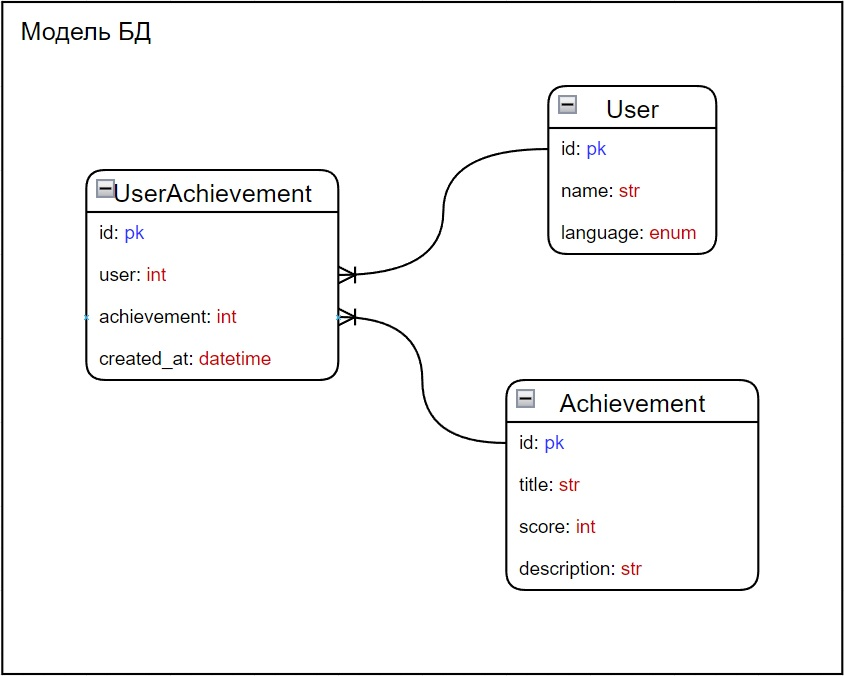
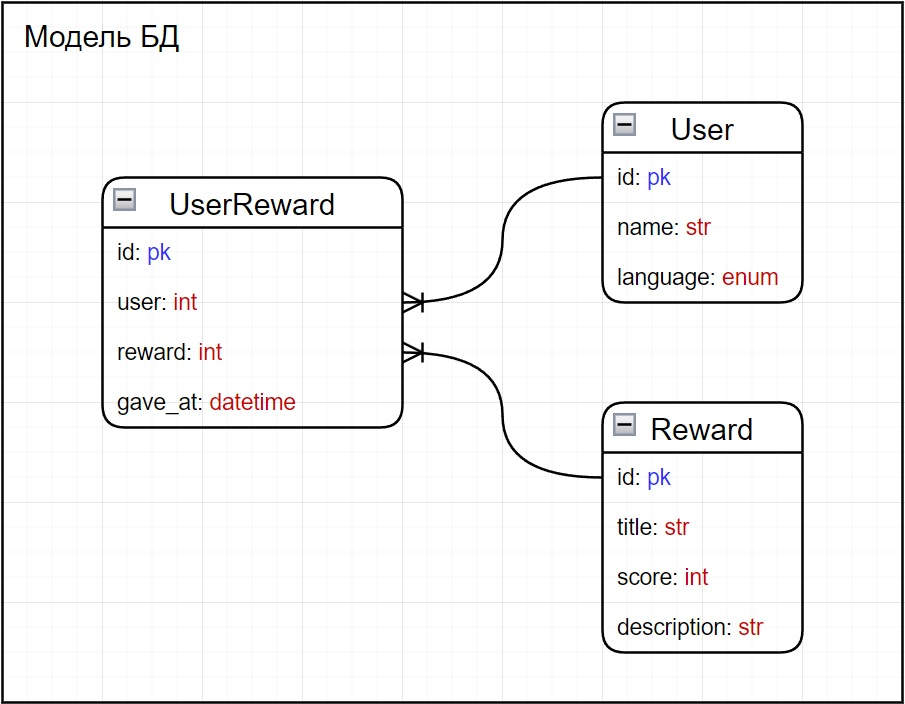
add rewardest user api

diff --git a/src/main.py b/src/main.py
@@ -1,6 +1,8 @@
-from fastapi import FastAPI, Depends, HTTPException
-from sqlalchemy.orm import Session
 from http import HTTPStatus
+
+from fastapi import Depends, FastAPI, HTTPException
+from sqlalchemy import func
+from sqlalchemy.orm import Session
 
 from src import crud, models, schemas
 from src.database import SessionLocal, engine
@@ -19,86 +21,91 @@ def get_db():
 
 
 @app.post('/users/', response_model=schemas.UserAdd)
-async def add_user(user: schemas.UserAdd, db: Session = Depends(get_db)):
+def add_user(user: schemas.UserAdd, db: Session = Depends(get_db)):
     return crud.add_user(db=db, user=user)
 
 
 @app.get('/users/', response_model=list[schemas.UserGet])
-async def get_users(db: Session = Depends(get_db)):
+def get_users(db: Session = Depends(get_db)):
     return db.query(models.User).all()
 
 
 @app.get('/users/{id}', response_model=schemas.UserGet)
-async def get_user(id: int, db: Session = Depends(get_db)):
+def get_user(id: int, db: Session = Depends(get_db)):
     user = crud.get_user(db=db, id=id)
     if user is None:
         raise HTTPException(
-            status_code=HTTPStatus.NOT_FOUND,
-            detail='Пользователь не найден.'
+            status_code=HTTPStatus.NOT_FOUND, detail='Пользователь не найден.'
         )
     return user
 
 
-# @app.get('/users/most_rewarded')
-# async def get_most_rewarded_user():
-#     """Пользователь с максимальным количеством наград."""
-
-#     return {}
+@app.get('/users/rewardest/', response_model=schemas.RewardestUser)
+def get_rewardest_user(db: Session = Depends(get_db)):
+    rewardest = (
+        db.query(models.RewardUser.user, func.count(models.RewardUser.reward))
+        .group_by(models.RewardUser.user)
+        .order_by(func.count(models.RewardUser.reward).desc())
+        .first()
+    )
+    user, rewards = rewardest
+    return {'user': user, 'rewards': rewards}
 
 
 # @app.get('/users/max_scores')
-# async def get_user_with_max_scores():
+# def get_user_with_max_scores():
 #     """Пользователь с максимальным количеством баллов."""
 
 #     return {}
 
 
 # @app.get('/users/most_difference')
-# async def get_users_with_most_difference():
+# def get_users_with_most_difference():
 #     """Пользователи с наибольшей разницей очков."""
 
 #     return []
 
 
 # @app.get('/users/less_difference')
-# async def get_users_with_less_difference():
+# def get_users_with_less_difference():
 #     """Пользователи с наименьшей разницей очков."""
 
 #     return []
 
 
 # @app.get('/users/{id}/achievements')
-# async def get_user_achievements():
-#     """Список достижений пользователя."""
+# def get_user_rewards():
 
 #     return []
 
 
-@app.post('/achievements/', response_model=schemas.AchievementAdd)
-async def add_achievement(
-    achievements: schemas.AchievementAdd, db: Session = Depends(get_db)
-):
-    return crud.add_achievement(db=db, achievement=achievements)
+@app.post('/rewards/', response_model=schemas.RewardAdd)
+def add_reward(reward: schemas.RewardAdd, db: Session = Depends(get_db)):
+    return crud.add_reward(db=db, reward=reward)
 
 
-@app.get('/achievements/', response_model=list[schemas.AchievementGet])
-async def get_achievements(db: Session = Depends(get_db)):
-    return db.query(models.Achievement).all()
+@app.get('/rewards/', response_model=list[schemas.RewardGet])
+def get_rewards(db: Session = Depends(get_db)):
+    return db.query(models.Reward).all()
 
 
-@app.get('/achievements/{id}', response_model=schemas.AchievementGet)
-async def get_achievement(id: int, db: Session = Depends(get_db)):
-    achievement = crud.get_achievement(db=db, id=id)
-    if achievement is None:
+@app.get('/rewards/{id}', response_model=schemas.RewardGet)
+def get_reward(id: int, db: Session = Depends(get_db)):
+    reward = crud.get_reward(db=db, id=id)
+    if reward is None:
         raise HTTPException(
-            status_code=HTTPStatus.NOT_FOUND,
-            detail='Достижение не найдено.'
+            status_code=HTTPStatus.NOT_FOUND, detail='Достижение не найдено.'
         )
-    return achievement
+    return reward
 
 
-# @app.post('/achievements/reward')
-# async def add_user_achievement():
-#     """Выдать пользователю достижение."""
+@app.post('/reward_user/', response_model=schemas.RewardUserAdd)
+def reward_user(
+    rewarding: schemas.RewardUserAdd, db: Session = Depends(get_db)
+):
+    return crud.reward_user(db=db, rewarding=rewarding)
 
-#     return {'status': 200}
+
+@app.get('/rewarding_board/', response_model=list[schemas.RewardUserGet])
+def get_rewarding_board(db: Session = Depends(get_db)):
+    return db.query(models.RewardUser).all()

diff --git a/src/crud.py b/src/crud.py
@@ -1,6 +1,7 @@
 from sqlalchemy.orm import Session
 
 from src import models, schemas
+# from sqlalchemy import func
 
 
 def add_user(db: Session, user: schemas.UserAdd):
@@ -15,21 +16,27 @@ def get_user(db: Session, id: int):
     return db.query(models.User).filter(models.User.id == id).first()
 
 
-def add_achievement(db: Session, achievement: schemas.AchievementAdd):
-    achievement = models.Achievement(
-        title=achievement.title,
-        score=achievement.score,
-        description=achievement.description
+def add_reward(db: Session, reward: schemas.RewardAdd):
+    reward = models.Reward(
+        title=reward.title, score=reward.score, description=reward.description
     )
-    db.add(achievement)
+    db.add(reward)
     db.commit()
-    db.refresh(achievement)
-    return achievement
+    db.refresh(reward)
+    return reward
 
 
-def get_achievement(db: Session, id: int):
-    return (
-        db.query(models.Achievement)
-        .filter(models.Achievement.id == id)
-        .first()
-    )
+def get_reward(db: Session, id: int):
+    return db.query(models.Reward).filter(models.Reward.id == id).first()
+
+
+def reward_user(db: Session, rewarding: schemas.RewardUserAdd):
+    rewarding = models.RewardUser(user=rewarding.user, reward=rewarding.reward)
+    db.add(rewarding)
+    db.commit()
+    db.refresh(rewarding)
+    return rewarding
+
+
+def get_rewardest_user(db: Session):
+    pass

diff --git a/src/models.py b/src/models.py
@@ -1,17 +1,8 @@
 from datetime import datetime
-from sqlalchemy import (
-    Column, DateTime, Enum, ForeignKey, Integer, String, Table
-)
+
+from sqlalchemy import Column, DateTime, Enum, ForeignKey, Integer, String
 
 from src.database import Base
-
-user_chievement = Table(
-    'user_achievement',
-    Base.metadata,
-    Column('user', Integer, ForeignKey('users.id')),
-    Column('achievement', Integer, ForeignKey('achievements.id')),
-    Column('rewarded_at', DateTime, default=datetime.now)
-)
 
 
 class User(Base):
@@ -22,10 +13,19 @@ class User(Base):
     language = Column(Enum('russian', 'english', name='language'))
 
 
-class Achievement(Base):
-    __tablename__ = 'achievements'
+class Reward(Base):
+    __tablename__ = 'rewards'
 
     id = Column(Integer, primary_key=True)
     title = Column(String, unique=True, index=True)
     score = Column(Integer)
     description = Column(String)
+
+
+class RewardUser(Base):
+    __tablename__ = 'rewardings'
+
+    id = Column(Integer, primary_key=True)
+    user = Column(Integer, ForeignKey('users.id'))
+    reward = Column(Integer, ForeignKey('rewards.id'))
+    gave_at = Column(DateTime, default=datetime.now)

diff --git a/src/schemas.py b/src/schemas.py
@@ -1,4 +1,7 @@
+from datetime import datetime
 from enum import Enum
+from typing import Optional
+
 from pydantic import BaseModel
 
 
@@ -25,18 +28,36 @@ class UserGet(UserBase):
         from_attributes = True
 
 
-class AchievementBase(BaseModel):
+class RewardBase(BaseModel):
     title: str
     score: int
     description: str
 
 
-class AchievementAdd(AchievementBase):
+class RewardAdd(RewardBase):
     pass
 
 
-class AchievementGet(AchievementBase):
+class RewardGet(RewardBase):
     id: int
 
     class Config:
         from_attributes = True
+
+
+class RewardUserBase(BaseModel):
+    user: int
+
+
+class RewardUserAdd(RewardUserBase):
+    reward: int
+
+
+class RewardUserGet(RewardUserBase):
+    id: int
+    reward: int
+    gave_at: datetime
+
+
+class RewardestUser(RewardUserBase):
+    rewards: Optional[int]
